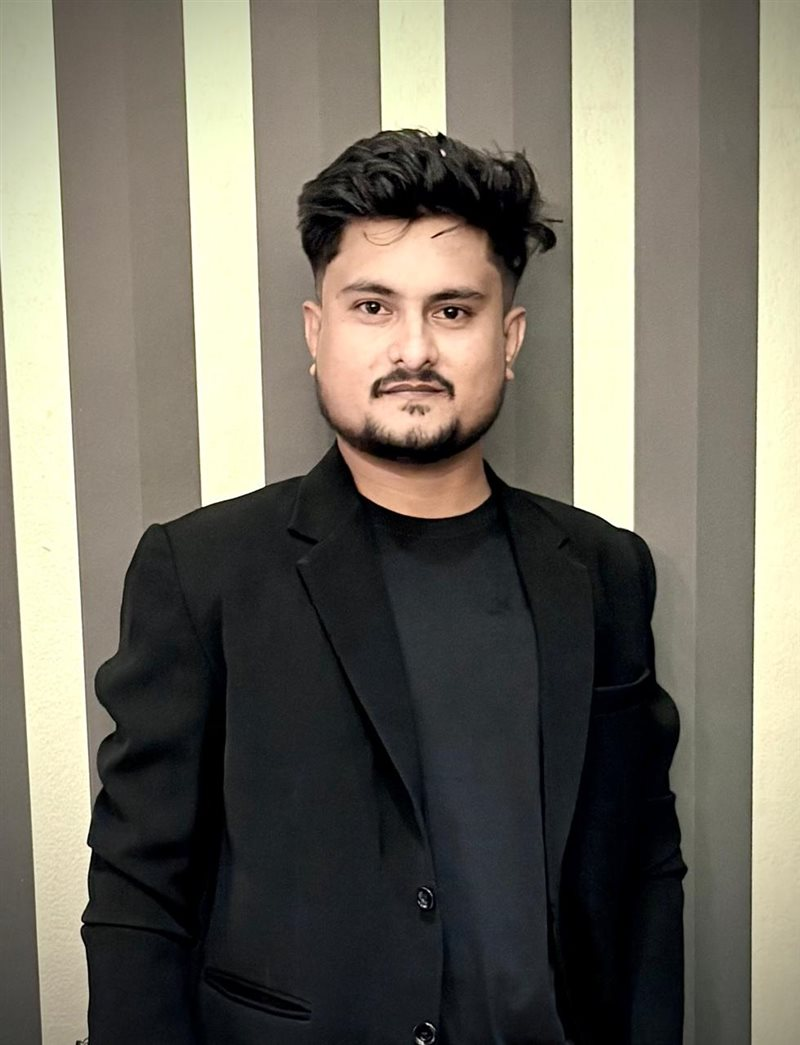
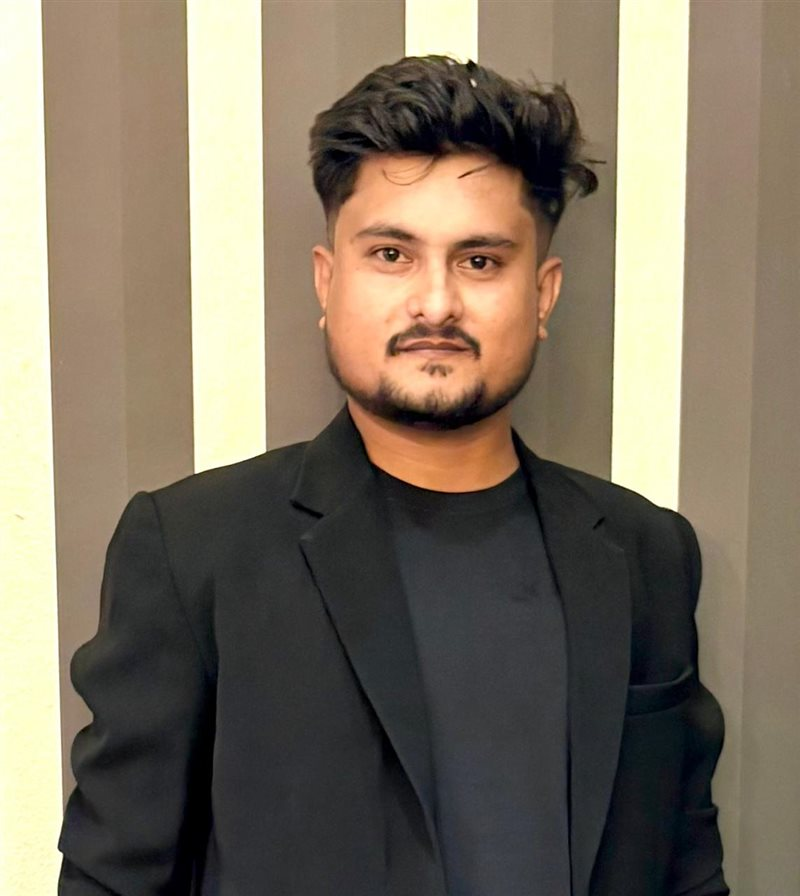
Update profile photo

diff --git a/index.html b/index.html
@@ -76,7 +76,7 @@
 
         <aside class="profile-card">
           <div class="photo-banner">
-            <img src="images/profile-full.jpg" alt="Mayur Satpute" width="800" height="1045" />
+            <img src="images/profile-full.jpg" alt="Mayur Satpute" width="800" height="896" />
           </div>
           <h3>Mayur Satpute</h3>
           <p class="pc-title">Team Lead – Senior Process Analyst</p>
